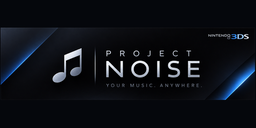
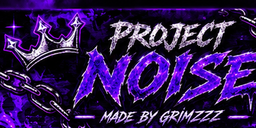
Add files via upload

diff --git a/source/main.c b/source/main.c
@@ -1126,7 +1126,7 @@ static void set_adjust(int dir)
     } else if (set_row == ROW_LY_ANIM) {
         S.ly_animated = !S.ly_animated;
     } else if (set_row == ROW_LY_STYLE) {
-        S.ly_anim_style = (S.ly_anim_style + dir + 4) % 4;
+        S.ly_anim_style = (S.ly_anim_style + dir + 8) % 8;
     } else if (set_row == ROW_LY_FONT) {
         S.ly_font = (S.ly_font + dir + 4) % 4;
     } else if (set_row == ROW_KB_FONT) {
@@ -2165,10 +2165,85 @@ static void ly_draw_karaoke(const char *line, float cx, float y, float sc, float
     float x = cx - total * 0.5f;
     for (int i = 0; i < count; i++) {
         const Rgb col = i == active ? accent : (i < active ? base : mix_rgb(base, th_bg, 82));
+        float word_sc = sc;
+        float word_w = widths[i];
+        if (i == active) {
+            /* One restrained swell as the playhead passes through the word. */
+            float phase = progress * (float)count - (float)i;
+            float pulse = 1.0f + 0.075f * sinf(fmaxf(0.0f, fminf(1.0f, phase)) * 3.14159265f);
+            word_sc *= pulse;
+            word_w = ly_word_width(words[i], word_sc);
+        }
+        float draw_x = x + (widths[i] - word_w) * 0.5f;
         if (S.ly_font == 0 && lyfont_ok() && lyfont_can(words[i]))
-            lyfont_draw(words[i], x + widths[i] * 0.5f, y + 14.0f * sc, sc, C(col), C2D_AlignCenter, text_z);
+            lyfont_draw(words[i], x + widths[i] * 0.5f, y + 14.0f * word_sc, word_sc, C(col), C2D_AlignCenter, text_z);
         else
-            ly_draw_text(words[i], x, y, sc, C(col), C2D_AlignLeft, widths[i] + 2.0f);
+            ly_draw_text(words[i], draw_x, y, word_sc, C(col), C2D_AlignLeft, word_w + 2.0f);
+        x += widths[i] + space;
+    }
+}
+
+/* UTF-8 safe prefix used by Typewriter: reveal complete code points, never half a Spanish
+ * accent or a multi-byte symbol. The source lyric itself remains fully synchronized. */
+static void ly_utf8_prefix(const char *src, int chars, char *dst, size_t cap)
+{
+    size_t n = 0;
+    const unsigned char *p = (const unsigned char *)src;
+    while (*p && chars-- > 0 && n + 4 < cap) {
+        size_t step = (*p < 0x80) ? 1 : ((*p & 0xE0) == 0xC0 ? 2 : ((*p & 0xF0) == 0xE0 ? 3 : 4));
+        if (!p[1] && step > 1) step = 1;
+        else if (step > 2 && !p[2]) step = 1;
+        else if (step > 3 && !p[3]) step = 1;
+        memcpy(dst + n, p, step); n += step; p += step;
+    }
+    dst[n] = 0;
+}
+
+static int ly_utf8_count(const char *s)
+{
+    int n = 0;
+    for (const unsigned char *p = (const unsigned char *)s; *p; p++) if ((*p & 0xC0) != 0x80) n++;
+    return n;
+}
+
+static void ly_draw_typewriter(const char *line, float x, float y, float sc, float progress, Rgb col)
+{
+    char part[320];
+    int count = ly_utf8_count(line);
+    int visible = (int)((float)count * progress + 0.5f);
+    if (visible < 1 && progress > 0.0f) visible = 1;
+    if (visible > count) visible = count;
+    ly_utf8_prefix(line, visible, part, sizeof part);
+    if (part[0]) {
+        if (!ly_gothic_line(part, x, y + 14.0f * sc, sc, col, 0.0f, 372.0f))
+            ly_draw_text(part, x, y, sc, C(col), C2D_AlignCenter, 372.0f);
+    }
+}
+
+/* Liquid Text uses a small per-word vertical wave. It is deliberately 2D and bounded so
+ * it stays readable and inexpensive on the original 3DS. */
+static void ly_draw_liquid(const char *line, float cx, float y, float sc, float phase, Rgb col)
+{
+    char words[48][80]; float widths[48]; int count = 0;
+    const char *p = line;
+    while (*p && count < 48) {
+        while (*p && isspace((unsigned char)*p)) p++;
+        if (!*p) break;
+        size_t len = 0; while (p[len] && !isspace((unsigned char)p[len]) && len < sizeof words[0] - 1) len++;
+        memcpy(words[count], p, len); words[count][len] = 0;
+        widths[count] = ly_word_width(words[count], sc); count++; p += len;
+    }
+    if (!count) return;
+    float space = ly_word_width(" ", sc), total = space * (float)(count - 1);
+    for (int i = 0; i < count; i++) total += widths[i];
+    if (total > 372.0f) { float f = 372.0f / total; sc *= f; space *= f; total = 372.0f; for (int i=0;i<count;i++) widths[i] *= f; }
+    float x = cx - total * 0.5f;
+    for (int i = 0; i < count; i++) {
+        float wave = sinf(phase * 5.0f - (float)i * 0.72f) * 2.4f;
+        if (S.ly_font == 0 && lyfont_ok() && lyfont_can(words[i]))
+            lyfont_draw(words[i], x + widths[i] * 0.5f, y + wave + 14.0f * sc, sc, C(col), C2D_AlignCenter, text_z);
+        else
+            ly_draw_text(words[i], x, y + wave, sc, C(col), C2D_AlignLeft, widths[i] + 2.0f);
         x += widths[i] + space;
     }
 }
@@ -2248,24 +2323,35 @@ static void draw_lyrics_top(void)
         float active_x = 0.0f;
         if (S.ly_animated && !S.saver && idx >= 0) {
             switch (S.ly_anim_style) {
-            case 0: /* Slide: sweep in from the right, then settle. */
-                active_x = 30.0f * inv;
-                active_y = 4.0f * inv;
-                active_scale = 0.78f + 0.035f * ease;
+            case 0: /* Gothic Fade: soft dissolve with a restrained gothic halo. */
+                active_alpha = 0.05f + 0.95f * ease;
+                active_scale = 0.70f + 0.08f * ease;
                 break;
-            case 1: /* Fade: emerge softly while growing to full size. */
-                active_alpha = 0.08f + 0.92f * ease;
-                active_scale = 0.66f + 0.12f * ease;
-                break;
-            case 2: /* Karaoke: keep the line steady; the active word is highlighted below. */
+            case 1: /* Word Pulse: the line stays still; the active word swells below. */
                 active_scale = 0.78f;
                 break;
-            case 3: /* Bounce: overshoot upward and spring back into place. */
-                active_y = -22.0f * sinf(ease * 3.14159265f) * inv;
-                active_scale = 0.78f + 0.075f * sinf(ease * 3.14159265f);
+            case 2: /* Liquid Text: a low-amplitude wave moves through the words. */
+                active_scale = 0.78f;
                 break;
-            default:
+            case 3: /* Cinematic Reveal: rise from below and brighten into focus. */
+                active_y = 20.0f * inv;
+                active_alpha = 0.18f + 0.82f * ease;
+                active_scale = 0.74f + 0.04f * ease;
                 break;
+            case 4: /* Glitch: short, deterministic RGB split only at line changes. */
+                active_x = elapsed_ms < 115 ? sinf((float)elapsed_ms * 0.19f) * 5.0f : 0.0f;
+                active_y = elapsed_ms < 115 ? cosf((float)elapsed_ms * 0.23f) * 1.5f : 0.0f;
+                break;
+            case 5: /* Typewriter reveals characters against the existing playback clock. */
+                active_scale = 0.78f;
+                break;
+            case 6: /* Waveform Lyrics reacts only to real analyzer data. */
+                active_scale = 0.78f;
+                break;
+            case 7: /* Particle Dissolve: materialize through a brief sparse particle pass. */
+                active_alpha = 0.20f + 0.80f * ease;
+                break;
+            default: break;
             }
         }
         for (int k = -3; k <= 3; k++) {
@@ -2282,21 +2368,53 @@ static void draw_lyrics_top(void)
                 const float line_y = cy + active_y;
                 const float line_x = 200.0f + active_x;
                 /* No lyric backing plates or underlines: keep the text clean and unobstructed. */
-                if (S.ly_animated && !S.saver && S.ly_anim_style == 2 && idx >= 0) {
-                    int next_ms = idx + 1 < n ? lyrics_time(idx + 1) : lyrics_time(idx) + 3000;
-                    int span_ms = next_ms - lyrics_time(idx);
-                    if (span_ms < 500) span_ms = 500;
-                    float line_progress = (float)elapsed_ms / (float)span_ms;
-                    if (line_progress < 0.0f) line_progress = 0.0f;
-                    if (line_progress > 0.999f) line_progress = 0.999f;
-                    ly_draw_karaoke(tx, line_x, line_y - 14.0f * ly_font_scale(0.70f),
-                                    fit_scale(tx, 0.70f, 372.0f), line_progress, active_rgb, th_acc);
-                } else if (!ly_gothic_line(tx, line_x, line_y, active_scale, active_rgb, 0.34f * active_alpha, 372.0f)) {
-                    const float sc = fit_scale(tx, 0.70f, 372.0f) * (active_scale / 0.78f);
-                    if (S.ly_font == 0)
-                        draw_text_glow(tx, line_x, line_y - 14.0f * sc, sc, C2D_AlignCenter, active_rgb, th_glow, 0.45f * active_alpha, active_alpha, 372);
-                    else
-                        ly_draw_text(tx, line_x, line_y - 14.0f * ly_font_scale(sc), sc, active_col, C2D_AlignCenter, 372);
+                int next_ms = idx + 1 < n ? lyrics_time(idx + 1) : lyrics_time(idx) + 3000;
+                int span_ms = next_ms - lyrics_time(idx);
+                if (span_ms < 500) span_ms = 500;
+                float line_progress = (float)elapsed_ms / (float)span_ms;
+                if (line_progress < 0.0f) line_progress = 0.0f;
+                if (line_progress > 0.999f) line_progress = 0.999f;
+                const float base_y = line_y - 14.0f * ly_font_scale(0.70f);
+                const float base_sc = fit_scale(tx, 0.70f, 372.0f) * (active_scale / 0.78f);
+                if (S.ly_animated && !S.saver && S.ly_anim_style == 1) {
+                    ly_draw_karaoke(tx, line_x, base_y, base_sc, line_progress, active_rgb, th_acc);
+                } else if (S.ly_animated && !S.saver && S.ly_anim_style == 2) {
+                    ly_draw_liquid(tx, line_x, base_y, base_sc, (float)elapsed_ms / 1000.0f, active_rgb);
+                } else if (S.ly_animated && !S.saver && S.ly_anim_style == 5) {
+                    ly_draw_typewriter(tx, line_x, base_y, base_sc, line_progress, active_rgb);
+                } else if (S.ly_animated && !S.saver && S.ly_anim_style == 6) {
+                    float bands[AUDIO_VIS_BANDS], wave[AUDIO_VIS_WAVE];
+                    float energy = 0.0f;
+                    if (audio_get_vis(bands, wave)) {
+                        for (int q = 0; q < AUDIO_VIS_WAVE; q++) energy += fabsf(wave[q]);
+                        energy /= (float)AUDIO_VIS_WAVE;
+                    }
+                    float react = 1.0f + fminf(0.12f, energy * 0.55f);
+                    if (!ly_gothic_line(tx, line_x, line_y, base_sc * react, active_rgb, 0.20f, 372.0f))
+                        ly_draw_text(tx, line_x, base_y, base_sc * react, active_col, C2D_AlignCenter, 372);
+                } else if (S.ly_animated && !S.saver && S.ly_anim_style == 3) {
+                    /* Characters stagger into view during the short entrance; playback time is untouched. */
+                    ly_draw_typewriter(tx, line_x, base_y, base_sc, ease, active_rgb);
+                } else if (S.ly_animated && !S.saver && S.ly_anim_style == 4 && elapsed_ms < 115) {
+                    Rgb red = { 255, 70, 90 }, blue = { 70, 190, 255 };
+                    unsigned seed = (unsigned)(idx * 1103515245u + (unsigned)(elapsed_ms / 24) * 12345u);
+                    float jitter = (float)((seed >> 16) & 7u) - 3.0f;
+                    ly_draw_text(tx, line_x - 3.0f - jitter, base_y, base_sc, Ca(red, 0.45f), C2D_AlignCenter, 372);
+                    ly_draw_text(tx, line_x + 3.0f + jitter, base_y, base_sc, Ca(blue, 0.45f), C2D_AlignCenter, 372);
+                    ly_draw_text(tx, line_x + active_x, base_y + active_y, base_sc, active_col, C2D_AlignCenter, 372);
+                } else {
+                    if (S.ly_animated && !S.saver && S.ly_anim_style == 7 && elapsed_ms < 360) {
+                        for (int q = 0; q < 10; q++) {
+                            float ph = (float)(q * 37 + idx * 13);
+                            float px = line_x + sinf(ph) * (18.0f + 42.0f * inv);
+                            float py = line_y + cosf(ph * 1.7f) * (5.0f + 14.0f * inv);
+                            C2D_DrawCircleSolid(px, py, 0.11f, 1.0f + 1.2f * inv, Ca(th_acc, 0.45f * inv));
+                        }
+                    }
+                    if (S.ly_anim_style == 0 && !ly_gothic_line(tx, line_x, line_y, active_scale, active_rgb, 0.48f * active_alpha, 372.0f))
+                        ly_draw_text(tx, line_x, base_y, base_sc, active_col, C2D_AlignCenter, 372);
+                    else if (S.ly_anim_style != 0 && !ly_gothic_line(tx, line_x, line_y, active_scale, active_rgb, 0.18f * active_alpha, 372.0f))
+                        ly_draw_text(tx, line_x, base_y, base_sc, active_col, C2D_AlignCenter, 372);
                 }
             } else {
                 const Rgb dim = mix_rgb(mix_rgb(th_tx, th_bg, 55), th_bg, (int)((1.0f - a) * 255.0f));
@@ -2724,7 +2842,7 @@ static const char *UI_DISPLAY_NAMES[4]   = { "Cover", "LED Spectrum", "Scope", "
 static const char *UI_BATT_NAMES[2]      = { "Icon", "Percent" };
 static const char *UI_CLOCK_NAMES[3]     = { "Off", "12-hour", "24-hour" };
 static const char *UI_LY_FONT_NAMES[4]   = { "Gothic", "Bold", "Compact", "System" };
-static const char *UI_LY_ANIM_NAMES[4]   = { "Slide", "Fade", "Karaoke", "Bounce" };
+static const char *UI_LY_ANIM_NAMES[8]   = { "Gothic Fade", "Word Pulse", "Liquid Text", "Cinematic Reveal", "Glitch", "Typewriter", "Waveform Lyrics", "Particle Dissolve" };
 static const char *UI_KB_FONT_NAMES[4]   = { "Gothic", "Bold", "System", "Compact" };
 
 /* ------------------------------------------------------------ settings UI */
@@ -2778,7 +2896,7 @@ static void row_value(int r, char *out, size_t cap)
     case ROW_CLOCK:     s = UI_CLOCK_NAMES[(unsigned)S.clock_mode % 3]; break;
     case ROW_GLOWCOL:   s = GLOWCOL_NAMES[(unsigned)S.glow_color % GLOWCOL_COUNT]; break;
     case ROW_BATTSTYLE: s = UI_BATT_NAMES[(unsigned)S.batt_style % 2]; break;
-    case ROW_LY_STYLE:  s = UI_LY_ANIM_NAMES[(unsigned)S.ly_anim_style % 4]; break;
+    case ROW_LY_STYLE:  s = UI_LY_ANIM_NAMES[(unsigned)S.ly_anim_style % 8]; break;
     case ROW_LY_FONT:   s = UI_LY_FONT_NAMES[(unsigned)S.ly_font % 4]; break;
     case ROW_KB_FONT:   s = UI_KB_FONT_NAMES[(unsigned)S.kb_font % 4]; break;
     case ROW_SEEK:      snprintf(out, cap, "%d s", S.seek_step); return;

diff --git a/source/settings.c b/source/settings.c
@@ -9,7 +9,7 @@
 typedef struct { const char *name; u32 bg, text, accent, select; } Preset;
 
 static const Preset presets[PRESET_COUNT] = {
-    { "Noise",   0x040A14, 0xEAF2FF, 0x2F8CFF, 0x15366A },   /* the logo blue: default */
+    { "Noise",   0x08030F, 0xF4EEFF, 0xA020FF, 0x35105A },   /* Project Noise purple: default */
     { "Neon",    0x030806, 0xEEF4F2, 0x24FF68, 0x16502C },
     { "Emerald", 0x0A1410, 0xE8F6EE, 0x35D07F, 0x1B3A2C },
     { "Ocean",   0x0B1720, 0xE8F4F8, 0x39B8D6, 0x183A49 },
@@ -231,7 +231,7 @@ void settings_load(Settings *s)
     if (s->display_mode < 0 || s->display_mode > 3) s->display_mode = 0;
     if (s->wallpaper < 0 || s->wallpaper > 4) s->wallpaper = 0;
     if (s->ly_font < 0 || s->ly_font > 3) s->ly_font = 0;
-    if (s->ly_anim_style < 0 || s->ly_anim_style > 3) s->ly_anim_style = 0;
+    if (s->ly_anim_style < 0 || s->ly_anim_style > 7) s->ly_anim_style = 0;
     if (s->kb_font < 0 || s->kb_font > 3) s->kb_font = 0;
     if (s->glow_color < 0 || s->glow_color >= GLOWCOL_COUNT) s->glow_color = 0;
     if (s->batt_style < 0 || s->batt_style > 1) s->batt_style = 0;

diff --git a/source/settings.h b/source/settings.h
@@ -39,7 +39,7 @@ typedef struct {
     bool ly_offline;                 /* lyrics: never use the network, cache only */
     bool ly_sync;                    /* lyrics: prefer synchronized (LRC) lyrics */
     bool ly_animated;                /* lyrics: animate line transitions and scrolling */
-    int  ly_anim_style;              /* lyrics animation: 0 slide, 1 fade, 2 karaoke, 3 bounce */
+    int  ly_anim_style;              /* lyrics animation style: 0..7 */
     int  ly_font;                    /* lyrics text style: 0 = Gothic, 1 = Bold, 2 = Compact, 3 = System */
     int  kb_font;                    /* on-screen keyboard keys + text: 0 = Gothic, 1 = Bold, 2 = System, 3 = Compact */
     int  ui_ver;                     /* settings-file UI version (2 = Noise blue default theme) */

diff --git a/UI_REDESIGN.md b/UI_REDESIGN.md
@@ -1,6 +1,15 @@
 # PROJECT NOISE - Neon UI
 
-Default theme is **Neon** (black, neon green `#24FF68`); the other themes recolour the same layout.
+Default theme is **Noise** (near-black purple `#08030F`, soft white `#F4EEFF`, electric violet `#A020FF`); the other themes recolour the same layout. Branding uses the crown / chain / purple-flame artwork and the creator credit **MADE BY GRIMZZZZ**.
+
+Brand assets in `resources/`:
+- `icon.png`: 48x48 3DS app icon
+- `banner.png`: 256x128 HOME Menu banner
+- `cover.png`: 128x128 matching fallback cover
+- `boot_top.png`: 800x480 top-screen boot artwork (4:3 pixel-doubled 400x240)
+- `boot_bottom.png`: 640x480 bottom-screen boot artwork (pixel-doubled 320x240)
+
+The boot images are included as ready-to-integrate artwork; this update does not alter startup flow or add a new boot-screen renderer.
 
 ## Bottom screen (`source/main.c`)
 - Thin neon outline around the screen; faint wallpaper accents behind it (Settings > Appearance).
